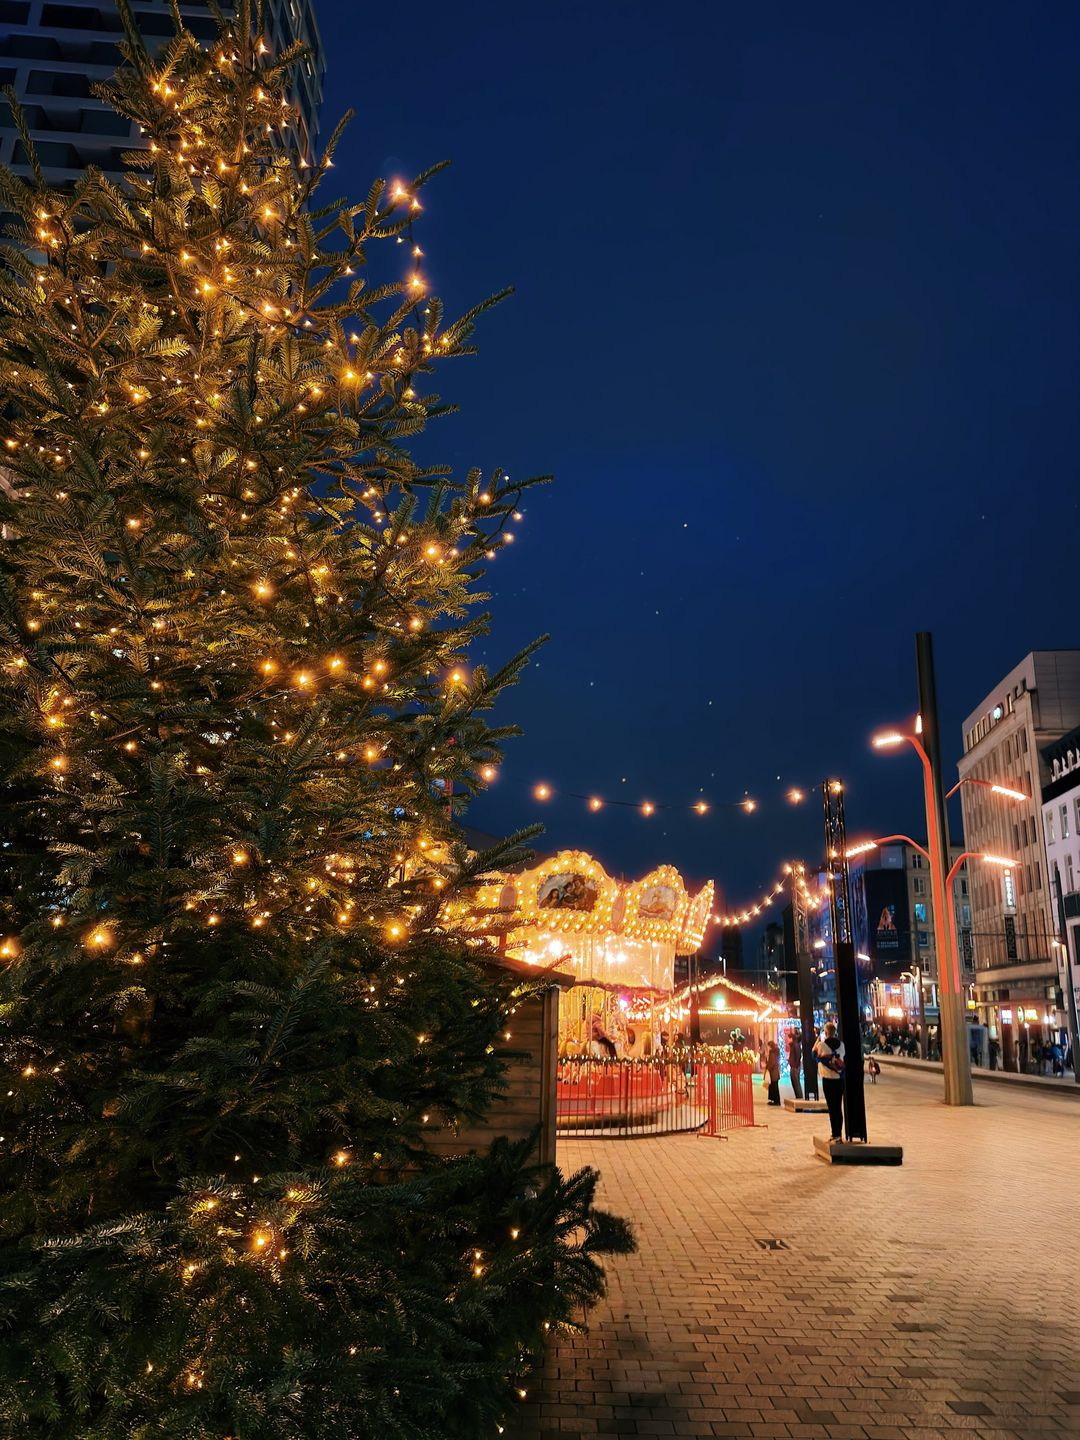
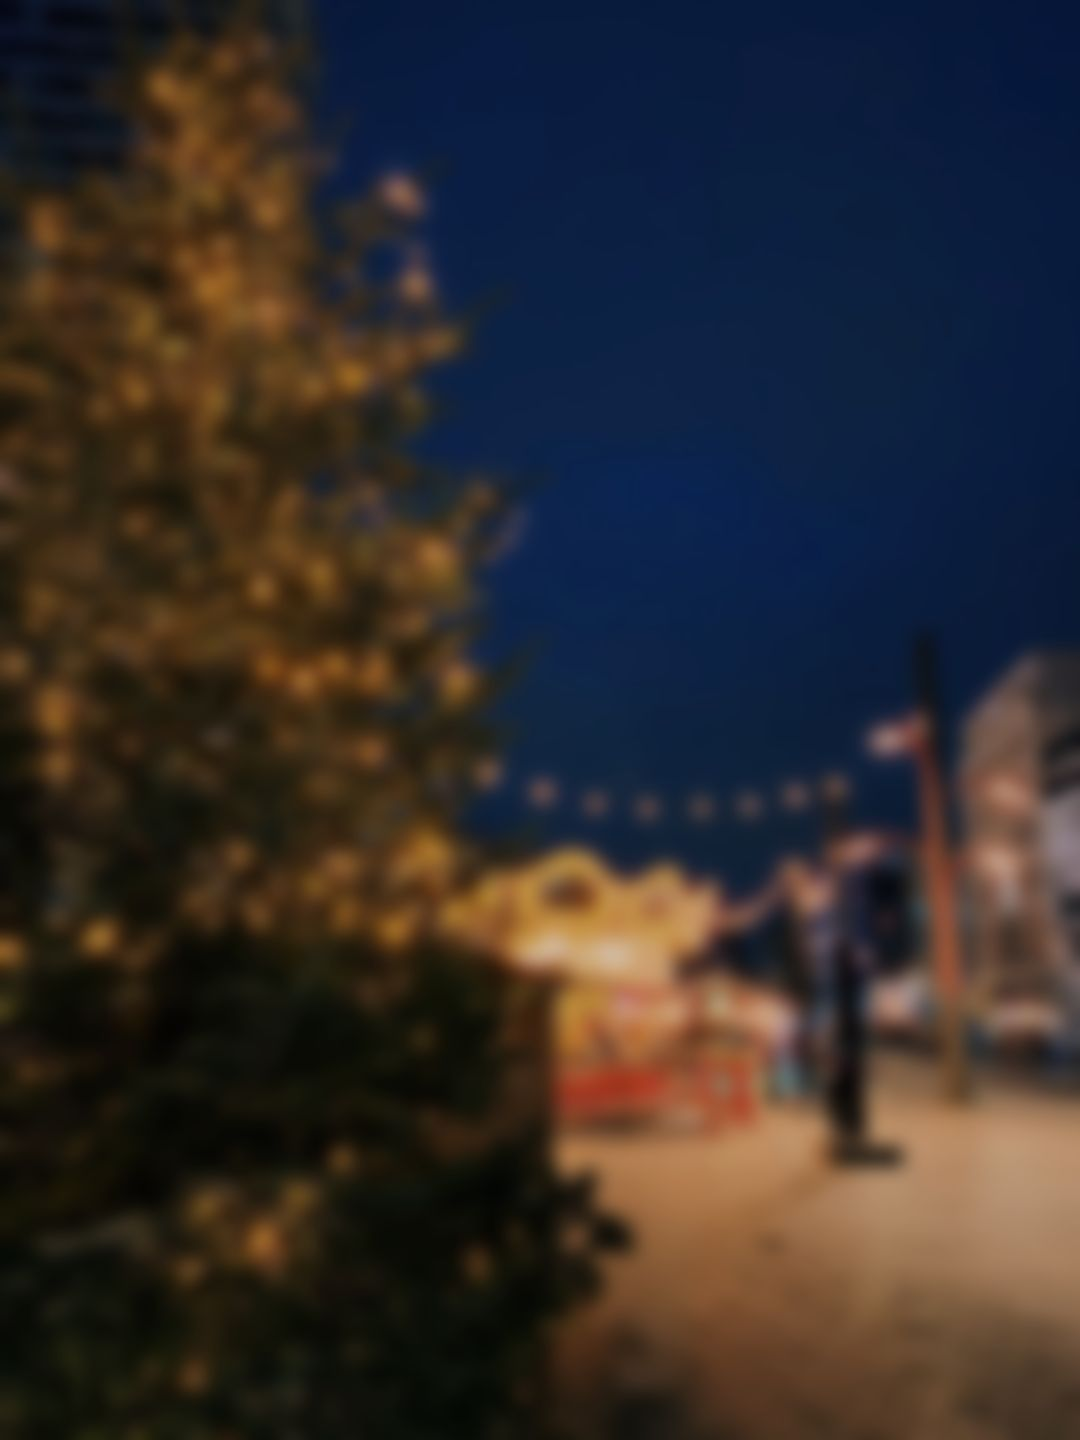
Blurred Christmas photo so text stands out
Claude-Session: https://claude.ai/code/session_01Ef73ghEPdiSmcfWJMEJA7A

diff --git a/public/index.html b/public/index.html
@@ -322,7 +322,7 @@ input[type=range]::-moz-range-thumb{width:28px;height:28px;border-radius:50%;bac
         <button class="bgBtn on" data-photo="golden" aria-label="Golden hour"><img src="/img/th-golden.jpg?v=2" alt=""></button>
         <button class="bgBtn" data-photo="sunset" aria-label="Sunset"><img src="/img/th-sunset.jpg" alt=""></button>
         <button class="bgBtn" data-photo="pier" aria-label="Breakwater"><img src="/img/th-pier.jpg" alt=""></button>
-        <button class="bgBtn" data-photo="xmas" aria-label="Christmas market"><img src="/img/th-xmas.jpg" alt=""></button>
+        <button class="bgBtn" data-photo="xmas" aria-label="Christmas market"><img src="/img/th-xmas.jpg?v=2" alt=""></button>
         <button class="bgBtn" data-photo="pool" aria-label="Pool"><img src="/img/th-pool.jpg" alt=""></button>
         <button class="bgBtn" data-photo="agave" aria-label="Agave"><img src="/img/th-agave.jpg" alt=""></button>
         <button class="bgBtn bg-dark" data-bg="dark" aria-label="Dark"></button>

diff --git a/public/sw.js b/public/sw.js
@@ -1,5 +1,5 @@
 // Typo Studio service worker: app werkt ook offline
-const VERSION = "typo-v25";
+const VERSION = "typo-v26";
 const SHELL = ["/", "/manifest.webmanifest", "/icons/icon-192.png", "/icons/icon-512.png", "/icons/apple-touch-icon.png",
   "/img/bg-sunset.jpg", "/img/bg-pier.jpg", "/img/th-sunset.jpg", "/img/th-pier.jpg", "/img/bg-xmas.jpg", "/img/th-xmas.jpg", "/img/bg-pool.jpg", "/img/th-pool.jpg", "/img/bg-golden.jpg", "/img/th-golden.jpg", "/img/bg-agave.jpg", "/img/th-agave.jpg"];
 
